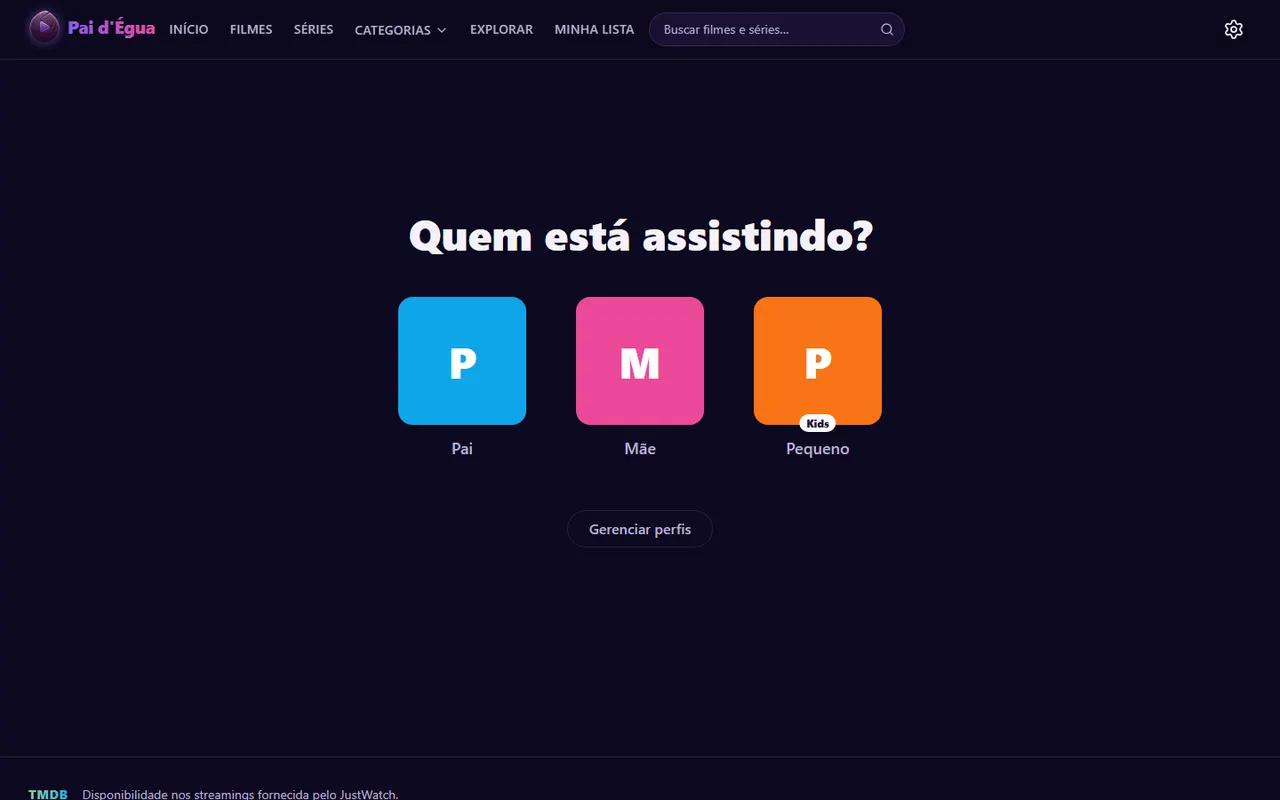
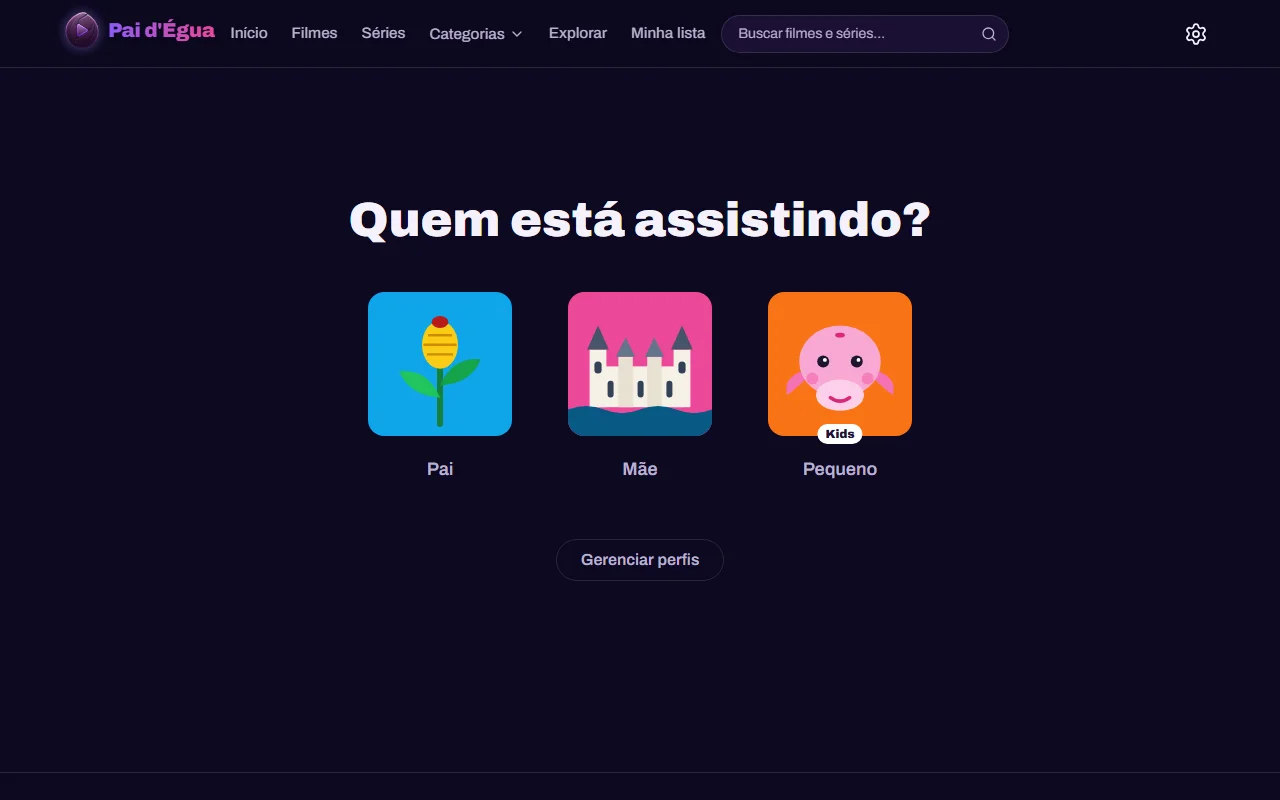
test: ponta a ponta da personalização e progresso da D1

diff --git a/tests/e2e/personalizacao.spec.js b/tests/e2e/personalizacao.spec.js
@@ -1,0 +1,61 @@
+import { test, expect } from '@playwright/test';
+import AxeBuilder from '@axe-core/playwright';
+import { prepare, signInDemo } from './helpers';
+
+const tags = ['wcag2a', 'wcag2aa', 'wcag21a', 'wcag21aa'];
+
+async function expectNoViolations(page, label) {
+  const results = await new AxeBuilder({ page }).withTags(tags).exclude('iframe').analyze();
+  expect(results.violations.map((v) => `${label} ${v.id}`)).toEqual([]);
+}
+
+test.beforeEach(async ({ page }) => {
+  await prepare(page);
+});
+
+test('personalização: avatares nos perfis, trocar o avatar e escolher a capa da Minha lista', async ({ page }) => {
+  test.setTimeout(150000);
+  await signInDemo(page, 'Pai');
+
+  // "Quem está assistindo?" com os desenhos no lugar das iniciais.
+  await page.goto('/perfis');
+  await expect(page.locator('main svg[data-avatar]')).toHaveCount(3); // fora o do menu do topo
+  await expectNoViolations(page, 'perfis');
+
+  // Trocar o avatar do Pai para Jambu e ver no topo do site.
+  await page.goto('/perfis/gerenciar');
+  await page.getByRole('listitem').filter({ hasText: 'Pai' }).getByRole('button', { name: 'Editar' }).click();
+  const form = page.getByRole('form', { name: 'Editar Pai' });
+  await form.getByText('Jambu', { exact: true }).click(); // clica no rótulo, como uma pessoa
+  await expect(form.getByRole('radio', { name: 'Jambu' })).toBeChecked();
+  await expectNoViolations(page, 'formulário do perfil');
+  await form.getByRole('button', { name: 'Salvar' }).click();
+  await expect(form).toBeHidden();
+  await page.goto('/');
+  await expect(page.getByRole('button', { name: 'Menu do perfil Pai' }).locator('svg[data-avatar="jambu"]')).toBeVisible();
+
+  // Um favorito com imagem vira a capa da Minha lista.
+  const favoritar = page.getByRole('button', { name: 'Favoritar Série Brilhante' }).first();
+  if (await favoritar.isVisible()) await favoritar.click();
+  await expect(page.getByRole('button', { name: 'Remover Série Brilhante dos favoritos' }).first()).toBeVisible();
+  await page.goto('/minha-lista');
+  const capa = page.getByRole('region', { name: 'Capa do perfil' });
+  await capa.getByRole('button', { name: 'Editar capa' }).click();
+  const painel = page.getByRole('dialog', { name: 'Capa do perfil' });
+  await painel.getByRole('radio', { name: 'Filme ou série favorito' }).check();
+  await painel.getByLabel('Favorito da capa').selectOption({ label: 'Série Brilhante' });
+  await expectNoViolations(page, 'painel da capa');
+  await painel.getByRole('button', { name: 'Salvar' }).click();
+  await expect(painel).toBeHidden();
+  await expect(capa).toHaveAttribute('data-cover', 'imagem');
+  // A cor veio da imagem servida pelo TMDB simulado.
+  await expect(page.locator('[data-cover-accent="true"]')).toHaveCount(1);
+  await expectNoViolations(page, 'Minha lista com capa');
+
+  // Voltar para a página padrão.
+  await capa.getByRole('button', { name: 'Editar capa' }).click();
+  await painel.getByRole('radio', { name: 'Usar página padrão' }).check();
+  await painel.getByRole('button', { name: 'Salvar' }).click();
+  await expect(painel).toBeHidden();
+  await expect(capa).toHaveAttribute('data-cover', 'padrao');
+});

diff --git a/README.md b/README.md
@@ -11,6 +11,7 @@
 - **Descobrir o que assistir** só entre o que está nas assinaturas brasileiras (Netflix, Prime Video, Disney+, HBO Max, Globoplay, Apple TV, Paramount+, Mercado Play), com trailer dublado ou legendado, sinopse, elenco, classificação indicativa e o botão que leva direto à plataforma.
 - **Explorar e buscar** com filtros por plataforma, gênero, ano, nota, duração e idioma; "Como você quer se sentir hoje?" sugere filmes por humor, sem pedir nenhum dado pessoal.
 - **Contas de família** com até 5 perfis e a tela "Quem está assistindo?".
+- **Cara do Pará:** cada perfil escolhe um avatar ilustrado (açaí, jambu, Ver-o-Peso, boto, preguiça, onça…) e uma capa para a Minha lista com a imagem de um favorito, com a cor de destaque tirada dela.
 - **Perfil Kids:** a criança vê o catálogo, mas títulos acima da faixa aparecem com cadeado e só abrem com o PIN dos pais. Sair do Kids ou entrar em áreas de adulto também pede o PIN.
 - **Listas do perfil:** ♥ Favoritos, "Assistindo" (com "Onde você parou" e "+1 episódio" nas séries) e "Já assisti", na página **Minha lista** e na fileira **Continuar assistindo**.
 - **Indicados para você**, a partir dos gêneros favoritos e do que o perfil marcou.
@@ -22,6 +23,8 @@
 | Perfil Kids com cadeado | Minha lista |
 |---|---|
 | ![Explorar no perfil Kids, com títulos bloqueados](docs/imagens/kids.webp) | ![Página Minha lista com as abas](docs/imagens/minha-lista.webp) |
+
+![Tela "Quem está assistindo?" com os avatares regionais: jambu, Ver-o-Peso e boto](docs/imagens/perfis.webp)
 
 ## Acessibilidade
 

diff --git a/docs/progresso.md b/docs/progresso.md
@@ -135,7 +135,21 @@ Ajustes pequenos já conhecidos da B1:
 - [ ] Acesso só para assinantes ou em teste
 
 ## Etapa D – Personalização
-- [ ] Avatares regionais (açaí, jambu, manga, pupunha, cupuaçu…)
-- [ ] Capa do perfil com a imagem do filme ou série favorito
+
+Protótipo aprovado em 08/11/2026: https://claude.ai/artifact/2hFdr3aR1CwZSdHQEG7RQe · [especificação](superpowers/specs/2026-11-08-etapa-d-personalizacao-design.md) · [plano da D1](superpowers/plans/2026-11-08-etapa-d1-avatares-capa.md)
+
+### D1 – Avatares e capa (ramo `etapa-d-personalizacao`)
+- [x] 12 avatares próprios: Açaí, Cupuaçu, Pupunha, Jambu, Castanha, Ver-o-Peso (adulto) e Boto, Preguiça, Arara, Peixe-boi, Tracajá, Onça (Kids)
+- [x] Escolha do avatar ao criar e editar o perfil (já vem marcado: Açaí ou Boto; opção "Só a inicial")
+- [x] Avatar em "Quem está assistindo?", Gerenciar perfis, no topo do site e na transição
+- [x] Capa da Minha lista com a imagem de um favorito, ou "Usar página padrão"
+- [x] Cor de destaque tirada da imagem, ajustada para 3:1 nos temas Escuro e Claro (Noturno e Alto contraste usam a do tema)
+- [x] Demonstração: Pai com Açaí e capa do filme favorito, Mãe com Ver-o-Peso, Pequeno com Boto
+- [ ] Sua revisão no navegador
+- [ ] Juntar o ramo ao `main`
+
+### D2 – Foto própria
+- [ ] Criar o armazenamento Vercel Blob no painel da Vercel (você)
+- [ ] Foto só em perfis adultos (inclusive na demonstração), apagada na recriação diária
 
 Ideias novas continuam indo para [ideias-para-depois.md](ideias-para-depois.md).
